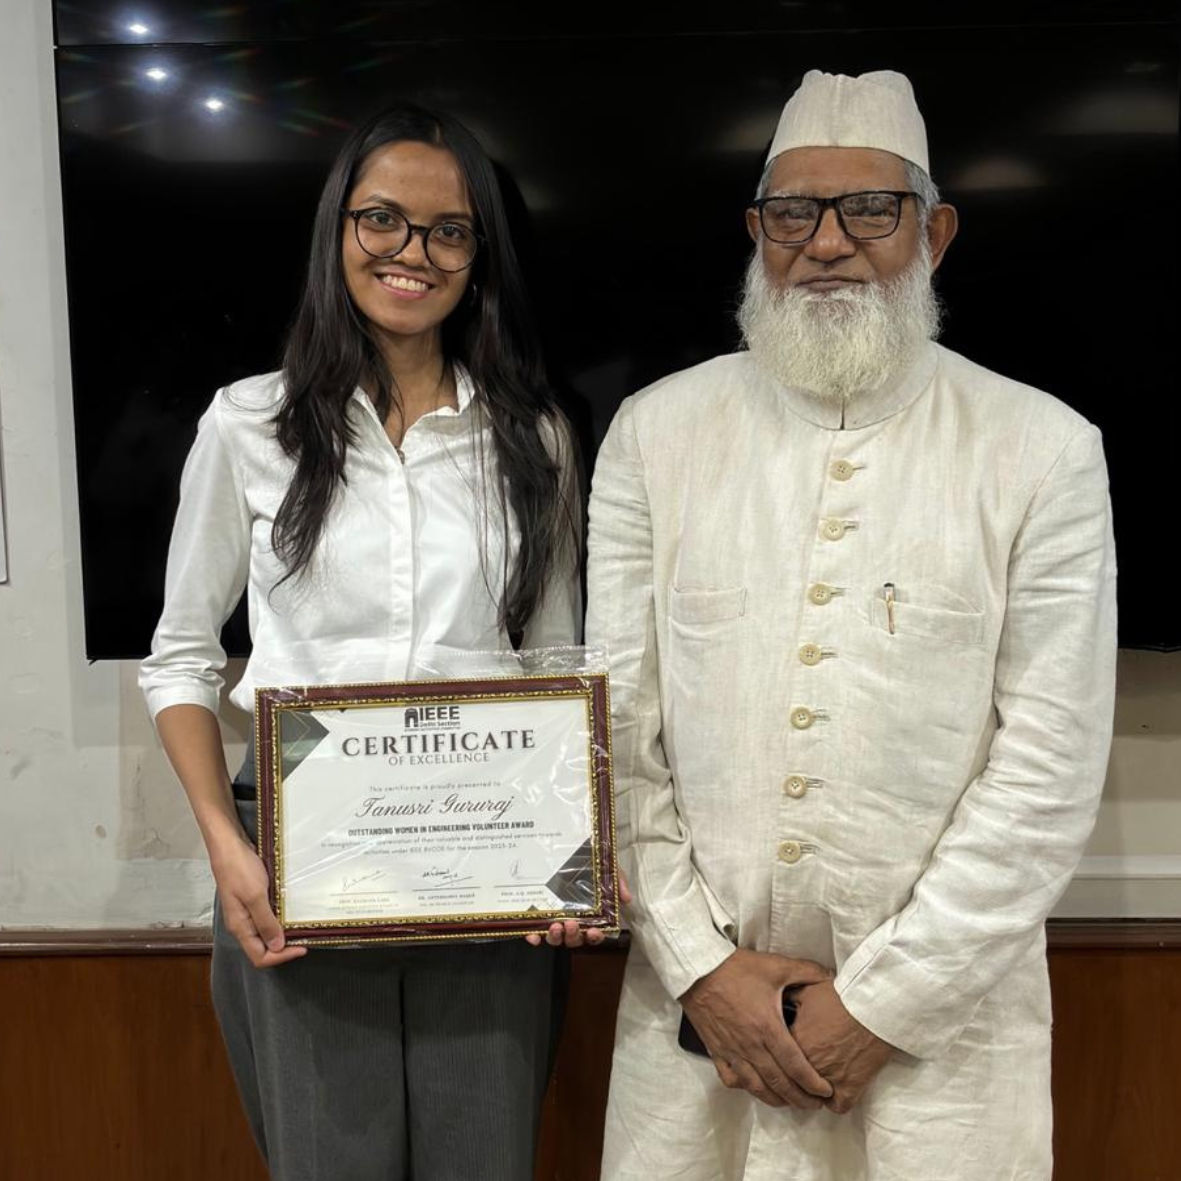
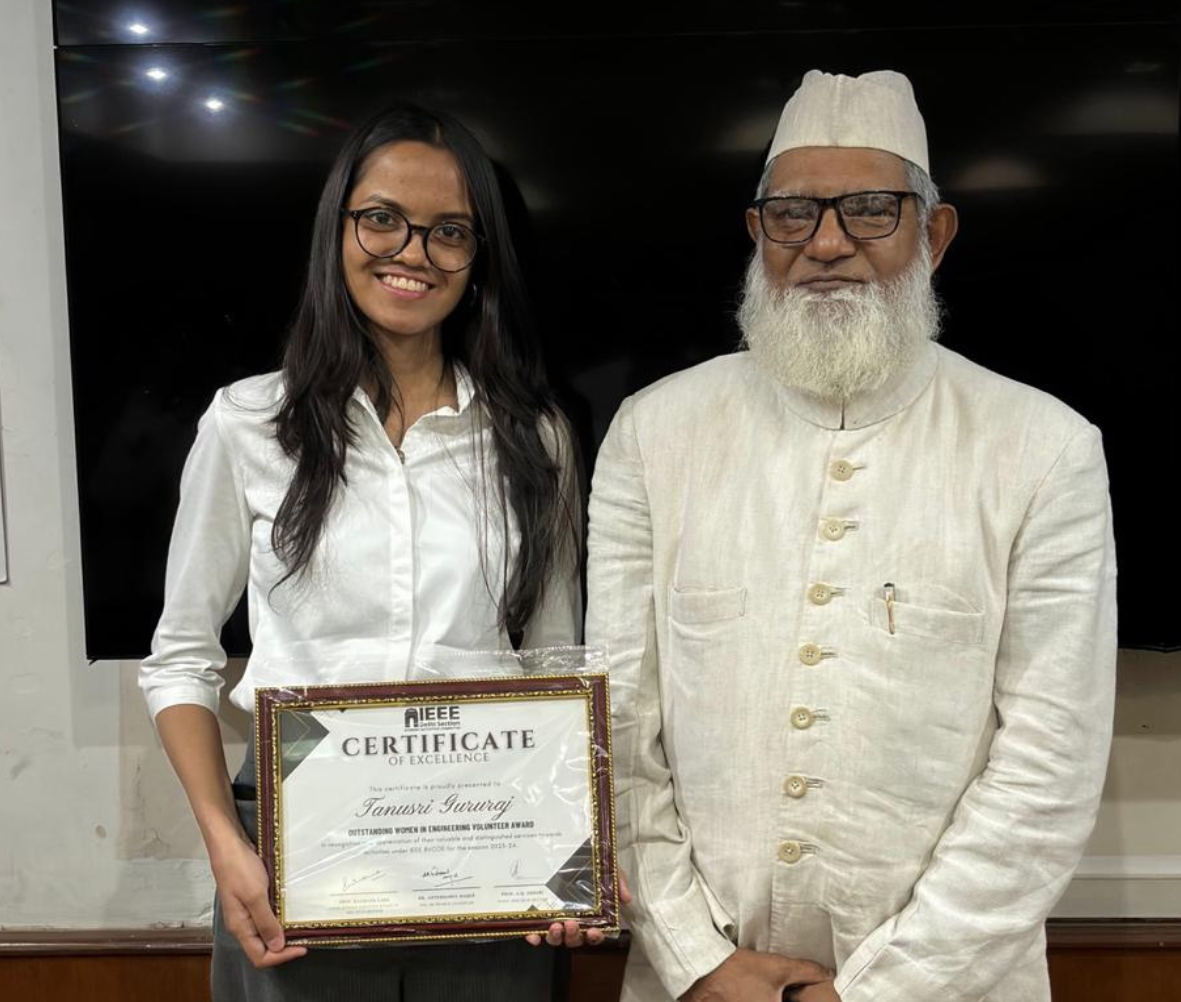
Added photos

diff --git a/src/pages/Achievements.jsx b/src/pages/Achievements.jsx
@@ -1,66 +1,75 @@
 import React from "react";
 import AwardCard from "../components/AwardCard";
 import Heading from "../components/Heading";
+import Anushka from "../assets/Achievements/1.png";
+import Tanusri from "../assets/Achievements/2.png";
+import Rishit from "../assets/Achievements/3.png";
+import Harshit from "../assets/Achievements/4.png";
+import Shreya from "../assets/Achievements/5.png";
+import Shivam from "../assets/Achievements/6.png";
+import Eva from "../assets/Achievements/7.png";
+import Nikita from "../assets/Achievements/8.png";
+import Amol from "../assets/Achievements/9.png";
 
 const awardData = [
   {
-    recipientImage: "/recipient-image.jpg",
+    recipientImage: Anushka,
     recipientName: "Anushka Mishra",
     awardName: "Dr. JK Pal Memorial Award for the Best IEEE Student Volunteer",
     eventName: "IEEE Delhi Section",
     eventYear: "Student Awards Ceremony 2024",
   },
   {
-    recipientImage: "/recipient-image.jpg",
+    recipientImage: Tanusri,
     recipientName: "Tanusri Gururaj",
     awardName: "Outstanding WIE Student Volunteer Award",
     eventName: "IEEE Delhi Section",
     eventYear: "Student Awards Ceremony 2024",
   },
   {
-    recipientImage: "/recipient-image.jpg",
+    recipientImage: Rishit,
     recipientName: "Rishit Singh",
     awardName: "Outstanding Student Volunteer Award",
     eventName: "IEEE Delhi Section",
     eventYear: "Student Awards Ceremony 2024",
   },
   {
-    recipientImage: "/recipient-image.jpg",
+    recipientImage: Harshit,
     recipientName: "Harshit Mathur",
     awardName: "Dr. JK Pal Memorial Award for the Best IEEE Student Volunteer",
     eventName: "IEEE Delhi Section",
     eventYear: "Student Awards Ceremony 2023",
   },
   {
-    recipientImage: "/recipient-image.jpg",
+    recipientImage: Shreya,
     recipientName: "Shreya Murarka",
     awardName: "Outstanding WIE Student Volunteer Award",
     eventName: "IEEE Delhi Section",
     eventYear: "Student Awards Ceremony 2023",
   },
   {
-    recipientImage: "/recipient-image.jpg",
+    recipientImage: Shivam,
     recipientName: "Shivam Jain",
     awardName: "Outstanding Student Volunteer Award",
     eventName: "IEEE Delhi Section",
     eventYear: "Student Awards Ceremony 2023",
   },
   {
-    recipientImage: "/recipient-image.jpg",
+    recipientImage: Eva,
     recipientName: "Eva Sarin",
     awardName: "Dr. JK Pal Memorial Award",
     eventName: "IEEE Delhi Section",
     eventYear: "Student Awards Ceremony 2022",
   },
   {
-    recipientImage: "/recipient-image.jpg",
+    recipientImage: Nikita,
     recipientName: "Nikita Tewary",
     awardName: "Outstanding WIE Student Volunteer Award",
     eventName: "IEEE Delhi Section",
     eventYear: "Student Awards Ceremony 2022",
   },
   {
-    recipientImage: "/recipient-image.jpg",
+    recipientImage: Amol,
     recipientName: "Amol Puri",
     awardName: "Outstanding Student Volunteer Award",
     eventName: "IEEE Delhi Section",
